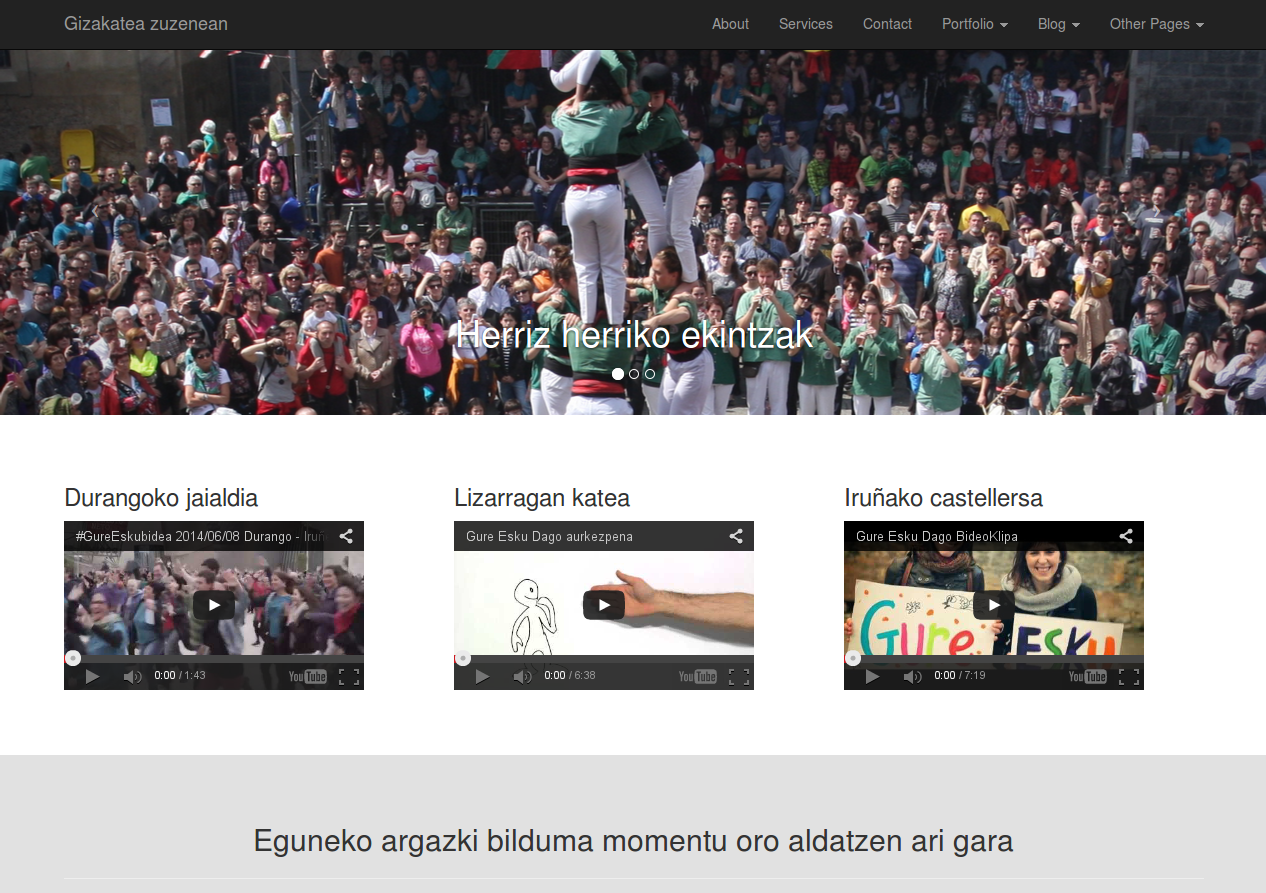
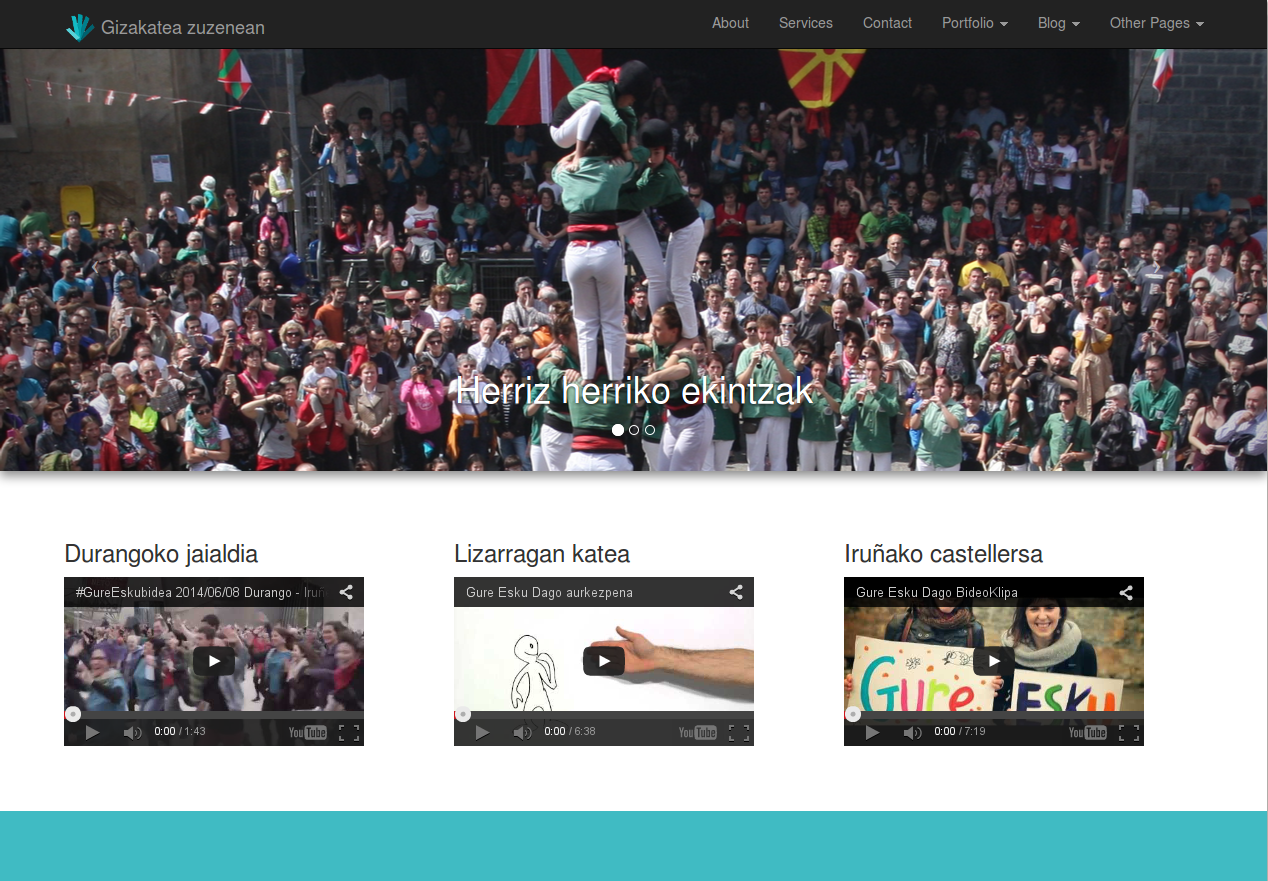
Style little changes

diff --git a/css/modern-business.css b/css/modern-business.css
@@ -117,6 +117,11 @@ body {
   font-style: italic;
 }
 
+/* Carousel styles */
+#myCarousel {
+  box-shadow: 0px 5px 10px #888888;
+}
+
 /* Footer Styles */
 footer {
   margin: 50px 0;
